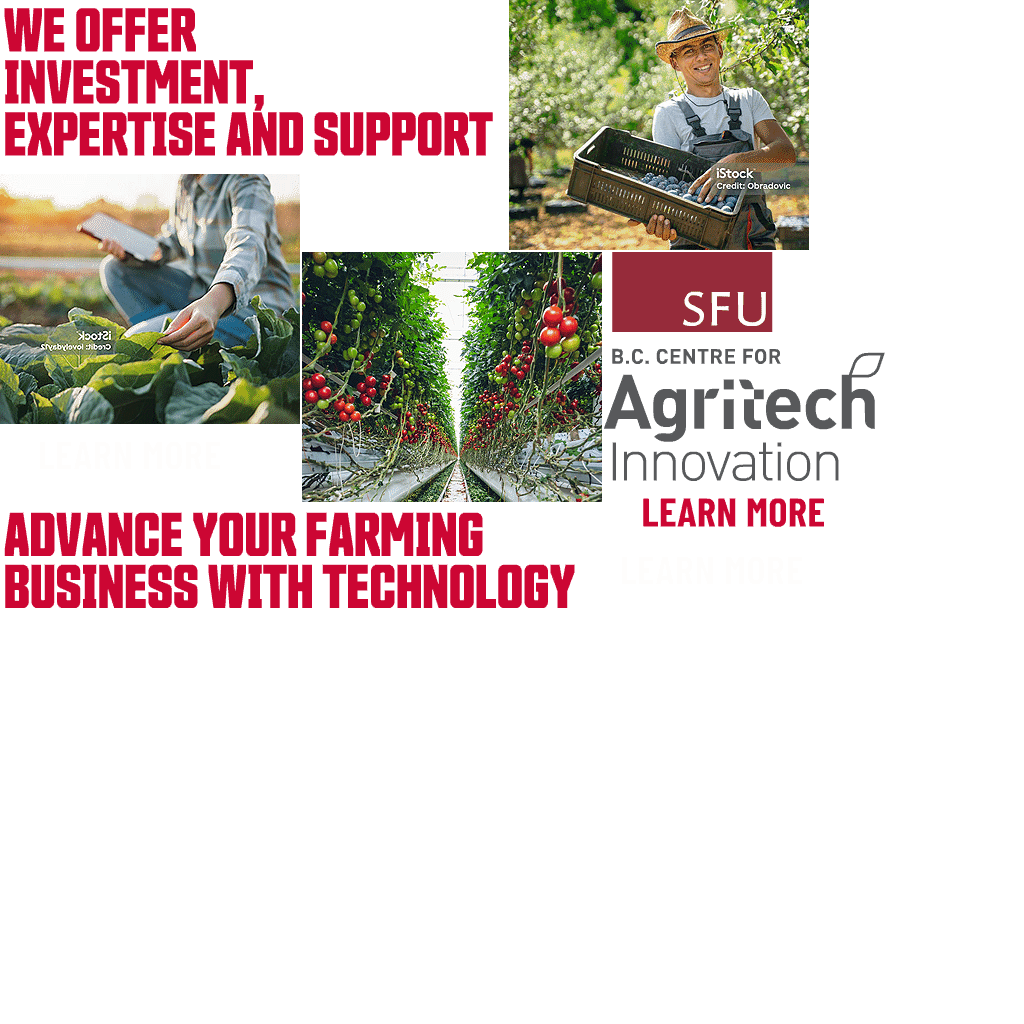
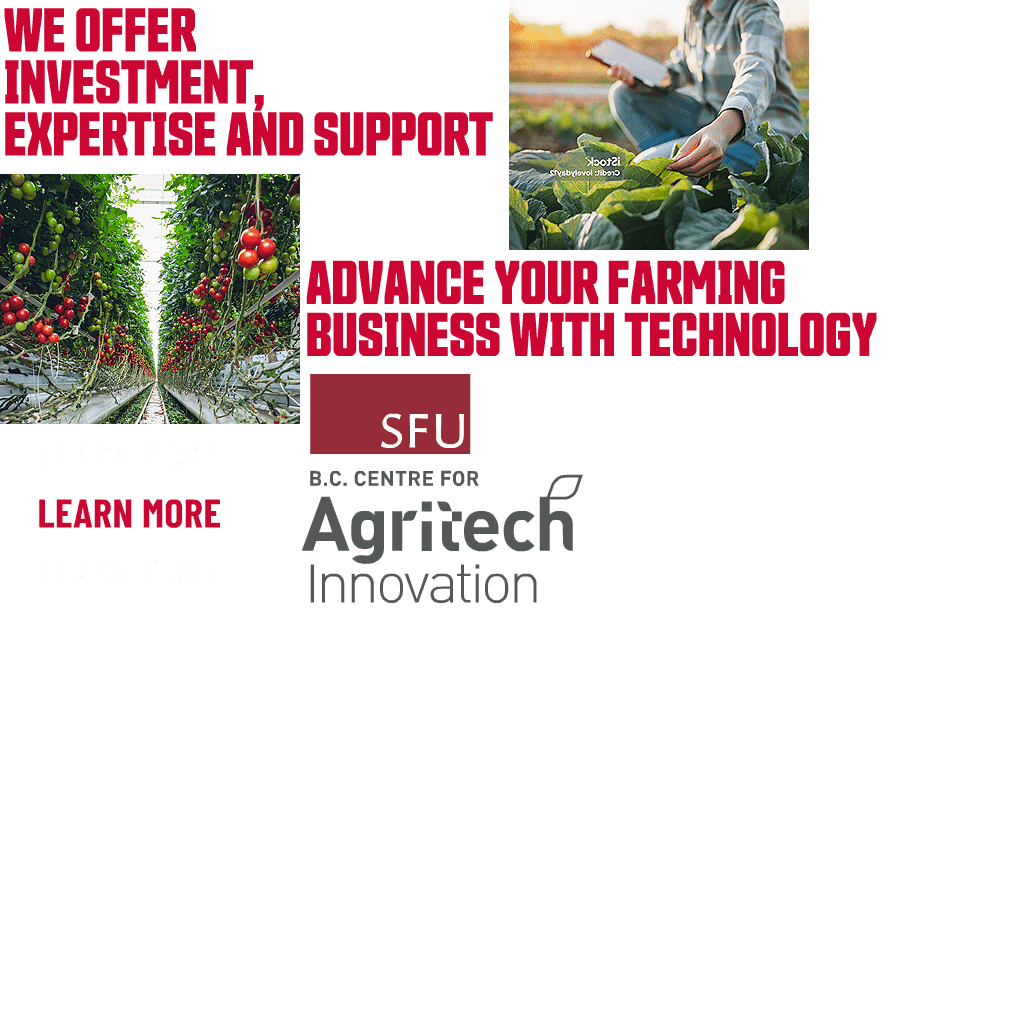
Add files via upload

Changed region(s): [[0.0, 0.0, 0.875, 0.5938]]

diff --git a/BCCAI/Farmer1_300x250/index.js b/BCCAI/Farmer1_300x250/index.js
@@ -3,7 +3,7 @@
 var p; // shortcut to reference prototypes
 var lib={};var ss={};var img={};
 lib.ssMetadata = [
-		{name:"index_atlas_1", frames: [[0,0,507,172],[0,504,462,120],[604,252,281,229],[0,426,260,56],[604,483,260,56],[464,541,260,56],[509,0,300,250],[0,174,300,250],[302,252,300,250]]}
+		{name:"index_atlas_1", frames: [[0,0,507,172],[0,483,462,120],[302,252,281,229],[464,483,260,56],[585,252,260,56],[585,310,260,56],[509,0,300,250],[0,174,300,250]]}
 ];
 
 
@@ -27,65 +27,58 @@ lib.ssMetadata = [
 
 
 
-(lib.CachedBmp_17 = function() {
+(lib.CachedBmp_18 = function() {
 	this.initialize(ss["index_atlas_1"]);
 	this.gotoAndStop(0);
 }).prototype = p = new cjs.Sprite();
 
 
 
-(lib.CachedBmp_18 = function() {
+(lib.CachedBmp_17 = function() {
 	this.initialize(ss["index_atlas_1"]);
 	this.gotoAndStop(1);
 }).prototype = p = new cjs.Sprite();
 
 
 
-(lib.CachedBmp_4 = function() {
+(lib.CachedBmp_16 = function() {
 	this.initialize(ss["index_atlas_1"]);
 	this.gotoAndStop(2);
 }).prototype = p = new cjs.Sprite();
 
 
 
-(lib.CachedBmp_3 = function() {
+(lib.CachedBmp_15 = function() {
 	this.initialize(ss["index_atlas_1"]);
 	this.gotoAndStop(3);
 }).prototype = p = new cjs.Sprite();
 
 
 
-(lib.CachedBmp_2 = function() {
+(lib.CachedBmp_14 = function() {
 	this.initialize(ss["index_atlas_1"]);
 	this.gotoAndStop(4);
 }).prototype = p = new cjs.Sprite();
 
 
 
-(lib.CachedBmp_1 = function() {
+(lib.CachedBmp_13 = function() {
 	this.initialize(ss["index_atlas_1"]);
 	this.gotoAndStop(5);
 }).prototype = p = new cjs.Sprite();
 
 
 
-(lib.Bitmap12 = function() {
+(lib.Bitmap13 = function() {
 	this.initialize(ss["index_atlas_1"]);
 	this.gotoAndStop(6);
 }).prototype = p = new cjs.Sprite();
 
 
 
-(lib.Bitmap13 = function() {
-	this.initialize(ss["index_atlas_1"]);
-	this.gotoAndStop(7);
-}).prototype = p = new cjs.Sprite();
-
-
-
 (lib.Bitmap8copy = function() {
 	this.initialize(ss["index_atlas_1"]);
-	this.gotoAndStop(8);
+	this.gotoAndStop(7);
 }).prototype = p = new cjs.Sprite();
 
 
@@ -102,7 +95,7 @@ if (reversed == null) { reversed = false; }
 	cjs.MovieClip.apply(this,[props]);
 
 	// Text
-	this.instance = new lib.CachedBmp_17();
+	this.instance = new lib.CachedBmp_18();
 	this.instance.setTransform(0,0,0.5,0.5);
 
 	this.timeline.addTween(cjs.Tween.get(this.instance).wait(1));
@@ -125,7 +118,7 @@ if (reversed == null) { reversed = false; }
 	cjs.MovieClip.apply(this,[props]);
 
 	// Text
-	this.instance = new lib.CachedBmp_18();
+	this.instance = new lib.CachedBmp_17();
 	this.instance.setTransform(0,0,0.5,0.5);
 
 	this.timeline.addTween(cjs.Tween.get(this.instance).wait(1));
@@ -148,7 +141,7 @@ if (reversed == null) { reversed = false; }
 	cjs.MovieClip.apply(this,[props]);
 
 	// FlashAICB
-	this.instance = new lib.CachedBmp_4();
+	this.instance = new lib.CachedBmp_16();
 	this.instance.setTransform(-4.2,0,0.5,0.5);
 	this.instance._off = true;
 
@@ -204,7 +197,7 @@ if (reversed == null) { reversed = false; }
 	// Layer_2
 	this.instance = new lib.Bitmap8copy();
 
-	this.timeline.addTween(cjs.Tween.get(this.instance).to({_off:true},1).wait(1));
+	this.timeline.addTween(cjs.Tween.get(this.instance).wait(1));
 
 	this._renderFirstFrame();
 
@@ -224,13 +217,13 @@ if (reversed == null) { reversed = false; }
 	cjs.MovieClip.apply(this,[props]);
 
 	// TEXT
-	this.instance = new lib.CachedBmp_1();
+	this.instance = new lib.CachedBmp_13();
 	this.instance.setTransform(0,1.5,0.5,0.5);
 
-	this.instance_1 = new lib.CachedBmp_2();
+	this.instance_1 = new lib.CachedBmp_14();
 	this.instance_1.setTransform(0,1.5,0.5,0.5);
 
-	this.instance_2 = new lib.CachedBmp_3();
+	this.instance_2 = new lib.CachedBmp_15();
 	this.instance_2.setTransform(0,1.5,0.5,0.5);
 
 	this.timeline.addTween(cjs.Tween.get({}).to({state:[{t:this.instance}]}).to({state:[{t:this.instance_1}]},1).to({state:[{t:this.instance_2}]},1).to({state:[]},1).wait(2));
@@ -915,8 +908,6 @@ if (reversed == null) { reversed = false; }
 	this.filterCacheList.push({instance: this.instance_4, startFrame:109, endFrame:122, x:-2, y:-2, w:235, h:64});
 	this.filterCacheList.push({instance: this.instance_5, startFrame:1, endFrame:23, x:-2, y:-2, w:304, h:254});
 	this.filterCacheList.push({instance: this.instance_5, startFrame:0, endFrame:0, x:-2, y:-2, w:304, h:254});
-	this.filterCacheList.push({instance: this.instance_5, startFrame:24, endFrame:128, x:-2, y:-2, w:304, h:254});
-	this.filterCacheList.push({instance: this.instance_5, startFrame:128, endFrame:346, x:-2, y:-2, w:304, h:254});
 	this._renderFirstFrame();
 
 }).prototype = p = new lib.AnMovieClip();

diff --git a/BCCAI/Farmer2_300x250/index.js b/BCCAI/Farmer2_300x250/index.js
@@ -3,7 +3,7 @@
 var p; // shortcut to reference prototypes
 var lib={};var ss={};var img={};
 lib.ssMetadata = [
-		{name:"index_atlas_1", frames: [[0,0,507,172],[0,504,580,120],[604,252,281,229],[0,426,260,56],[604,483,260,56],[582,541,260,56],[509,0,300,250],[0,174,300,250],[302,252,300,250]]}
+		{name:"index_atlas_1", frames: [[0,0,507,172],[302,252,580,120],[302,374,281,229],[0,426,260,56],[0,484,260,56],[0,542,260,56],[509,0,300,250],[0,174,300,250]]}
 ];
 
 
@@ -27,65 +27,58 @@ lib.ssMetadata = [
 
 
 
-(lib.CachedBmp_17 = function() {
+(lib.CachedBmp_18 = function() {
 	this.initialize(ss["index_atlas_1"]);
 	this.gotoAndStop(0);
 }).prototype = p = new cjs.Sprite();
 
 
 
-(lib.CachedBmp_5 = function() {
+(lib.CachedBmp_19 = function() {
 	this.initialize(ss["index_atlas_1"]);
 	this.gotoAndStop(1);
 }).prototype = p = new cjs.Sprite();
 
 
 
-(lib.CachedBmp_4 = function() {
+(lib.CachedBmp_16 = function() {
 	this.initialize(ss["index_atlas_1"]);
 	this.gotoAndStop(2);
 }).prototype = p = new cjs.Sprite();
 
 
 
-(lib.CachedBmp_3 = function() {
+(lib.CachedBmp_15 = function() {
 	this.initialize(ss["index_atlas_1"]);
 	this.gotoAndStop(3);
 }).prototype = p = new cjs.Sprite();
 
 
 
-(lib.CachedBmp_2 = function() {
+(lib.CachedBmp_14 = function() {
 	this.initialize(ss["index_atlas_1"]);
 	this.gotoAndStop(4);
 }).prototype = p = new cjs.Sprite();
 
 
 
-(lib.CachedBmp_1 = function() {
+(lib.CachedBmp_13 = function() {
 	this.initialize(ss["index_atlas_1"]);
 	this.gotoAndStop(5);
 }).prototype = p = new cjs.Sprite();
 
 
 
-(lib.Bitmap12 = function() {
+(lib.Bitmap13 = function() {
 	this.initialize(ss["index_atlas_1"]);
 	this.gotoAndStop(6);
 }).prototype = p = new cjs.Sprite();
 
 
 
-(lib.Bitmap13 = function() {
-	this.initialize(ss["index_atlas_1"]);
-	this.gotoAndStop(7);
-}).prototype = p = new cjs.Sprite();
-
-
-
 (lib.Bitmap8copy = function() {
 	this.initialize(ss["index_atlas_1"]);
-	this.gotoAndStop(8);
+	this.gotoAndStop(7);
 }).prototype = p = new cjs.Sprite();
 
 
@@ -102,7 +95,7 @@ if (reversed == null) { reversed = false; }
 	cjs.MovieClip.apply(this,[props]);
 
 	// Text
-	this.instance = new lib.CachedBmp_17();
+	this.instance = new lib.CachedBmp_18();
 	this.instance.setTransform(0,0,0.5,0.5);
 
 	this.timeline.addTween(cjs.Tween.get(this.instance).wait(1));
@@ -125,7 +118,7 @@ if (reversed == null) { reversed = false; }
 	cjs.MovieClip.apply(this,[props]);
 
 	// Text
-	this.instance = new lib.CachedBmp_5();
+	this.instance = new lib.CachedBmp_19();
 	this.instance.setTransform(0,0,0.5,0.5);
 
 	this.timeline.addTween(cjs.Tween.get(this.instance).wait(1));
@@ -148,7 +141,7 @@ if (reversed == null) { reversed = false; }
 	cjs.MovieClip.apply(this,[props]);
 
 	// FlashAICB
-	this.instance = new lib.CachedBmp_4();
+	this.instance = new lib.CachedBmp_16();
 	this.instance.setTransform(-4.2,0,0.5,0.5);
 	this.instance._off = true;
 
@@ -204,7 +197,7 @@ if (reversed == null) { reversed = false; }
 	// Layer_2
 	this.instance = new lib.Bitmap8copy();
 
-	this.timeline.addTween(cjs.Tween.get(this.instance).to({_off:true},1).wait(1));
+	this.timeline.addTween(cjs.Tween.get(this.instance).wait(1));
 
 	this._renderFirstFrame();
 
@@ -224,13 +217,13 @@ if (reversed == null) { reversed = false; }
 	cjs.MovieClip.apply(this,[props]);
 
 	// TEXT
-	this.instance = new lib.CachedBmp_1();
+	this.instance = new lib.CachedBmp_13();
 	this.instance.setTransform(0,1.5,0.5,0.5);
 
-	this.instance_1 = new lib.CachedBmp_2();
+	this.instance_1 = new lib.CachedBmp_14();
 	this.instance_1.setTransform(0,1.5,0.5,0.5);
 
-	this.instance_2 = new lib.CachedBmp_3();
+	this.instance_2 = new lib.CachedBmp_15();
 	this.instance_2.setTransform(0,1.5,0.5,0.5);
 
 	this.timeline.addTween(cjs.Tween.get({}).to({state:[{t:this.instance}]}).to({state:[{t:this.instance_1}]},1).to({state:[{t:this.instance_2}]},1).to({state:[]},1).wait(2));
@@ -923,8 +916,6 @@ if (reversed == null) { reversed = false; }
 	this.filterCacheList.push({instance: this.instance_4, startFrame:109, endFrame:122, x:-2, y:-2, w:294, h:64});
 	this.filterCacheList.push({instance: this.instance_5, startFrame:1, endFrame:23, x:-2, y:-2, w:304, h:254});
 	this.filterCacheList.push({instance: this.instance_5, startFrame:0, endFrame:0, x:-2, y:-2, w:304, h:254});
-	this.filterCacheList.push({instance: this.instance_5, startFrame:24, endFrame:128, x:-2, y:-2, w:304, h:254});
-	this.filterCacheList.push({instance: this.instance_5, startFrame:128, endFrame:346, x:-2, y:-2, w:304, h:254});
 	this._renderFirstFrame();
 
 }).prototype = p = new lib.AnMovieClip();
